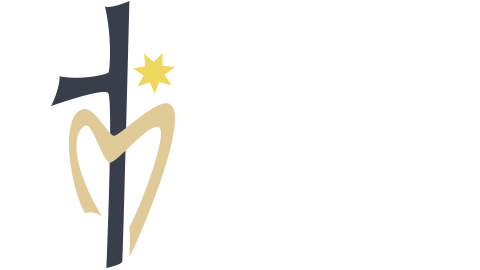
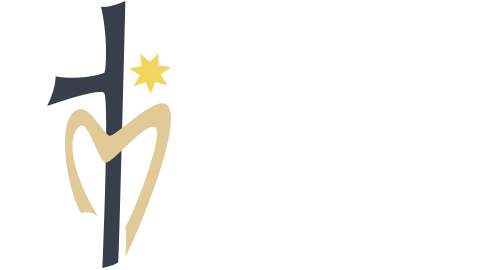
Final: 100%
- added tablet  css
- implemented review updates from Steve

Changed region(s): [[0.125, 0.0, 0.375, 1.0], [0.0938, 0.2667, 0.2188, 0.4148], [0.1562, 0.3852, 0.1875, 0.4148]]

diff --git a/lib/css/app.css b/lib/css/app.css
@@ -422,6 +422,7 @@ section,
 	.group > :last-child 		{ /*background-clip*/-moz-background-clip:padding; -webkit-background-clip:padding; background-clip:padding-box; }
 	.group > :first-child 		{ /*border-radius*/-webkit-border-radius:5px 5px 0 0; border-radius:5px 5px 0 0; }
 	.group > .item:last-child 	{ /*border-radius*/-webkit-border-radius:0 0 5px 5px; border-radius:0 0 5px 5px; border-bottom:2px solid #e5e5e5; }
+	.group > .item:only-child 	{ /*border-radius*/-webkit-border-radius:5px; border-radius:5px; }
 
 	/* groupHeader */
 	.groupHeader { 
@@ -433,7 +434,7 @@ section,
 		.groupHeader .m,
 		.groupHeader .y { display:block; max-width:45%; overflow:hidden; }
 		.groupHeader .m { float:left; }
-		.groupHeader .y { float:right; opacity:0.6; }
+		.groupHeader .y { float:right; opacity:0.8; }
 
 
 /* ==========================================================================
@@ -456,8 +457,8 @@ section,
 		
 		/* m */
 		.item .dateBlock .m { 
-			color:#b2b2b2; text-transform:uppercase;
-			font-size:11px; }
+			color:#888; text-transform:uppercase;
+			font-size:12px; }
 
 	/* -------------------------------------------------------------------------- */
 	/* icon */
@@ -468,18 +469,19 @@ section,
 	/* -------------------------------------------------------------------------- */
 	/* content */
 	.item .content {
-		width:auto; height:auto; min-height:34px; margin:14px 45px 14px 12px; padding:0; }
+		width:auto; height:auto; min-height:0; margin:14px 45px 14px 12px; padding:0; }
 	.item .dateBlock + .content { 
 		margin-left:55px; }
 	
 		/* common */
-		.item .content p { margin:0; overflow:hidden; /*white-space:nowrap; text-overflow:ellipsis;*/ }
+		.item .content p { margin:0; /* overflow:hidden; white-space:nowrap; text-overflow:ellipsis;*/ }
 
 		/* title */
 		.item .content .title { color:#333; font-size:16px; line-height:18px; margin-bottom:3px; }
+		.item .content .title:last-child { margin-bottom:0; }
 		
 		/* desc */
-		.item .content .desc { color:#aaa; font-size:14px; line-height:16px; }
+		.item .content .desc { color:#888; font-size:14px; line-height:16px; }
 
 /* -------------------------------------------------------------------------- */
 /* interaction */
@@ -491,8 +493,9 @@ section,
 /* custom */
 
 /* related */
-.item.related .title { margin-top:0; font-size:16px; line-height:34px; }
 .item.related .dateBlock { line-height:0.7em; }
+.item.related .content:before { content:''; display:inline-block; width:1px; min-height:34px; vertical-align:middle; }
+.item.related .content .title { display:inline-block; width:96%; margin-top:0; font-size:16px; line-height:18px; vertical-align:middle; }
 
 /* programmes | publications */
 .item.programmes .content .title,
@@ -598,8 +601,8 @@ section,
 	/* menuItem */
 	#pgHome .menuItem { 
 		display:block; position:absolute; top:0; width:50%; height:40%; margin:0; padding:0; overflow:hidden;
-		color:#fff!important; text-align:center;
-		text-decoration:none!important;
+		color:#fff!important; background-position:center bottom; background-repeat:repeat-x; 
+		text-align:center; text-decoration:none!important;
 		/*box-sizing*/-webkit-box-sizing:border-box; -moz-box-sizing:border-box; box-sizing:border-box;	}
 	
 	/* grid layout */
@@ -623,7 +626,7 @@ section,
 	
 		/* icon */
 		#pgHome .menuItem:before { 
-			display:block; position:absolute; top:50%; left:50%; margin:-30px 0 0 -20px; 
+			display:block; position:absolute; top:50%; left:50%; margin:-0.75em 0 0 -0.5em; 
 			font-size:40px; line-height:1em; }
 		#pgHome .menuItem.sml:before { 
 			display:inline-block; position:static; top:auto; left:auto; margin:0; 
@@ -638,8 +641,8 @@ section,
 		/* label */
 		#pgHome .menuItem .label { 
 			display:block; position:absolute; top:50%; left:0; width:100%; height:auto; margin:14px 0 0 0; 
-			opacity:0.6;
-			font-size:14px; line-height:1em; white-space:nowrap; text-overflow:ellipsis; }
+			opacity:0.8;
+			font-size:16px; line-height:1em; white-space:nowrap; text-overflow:ellipsis; }
 		#pgHome .menuItem.sml .label { 
 			display:inline-block; position:static; top:auto; left:auto; width:auto; margin:0 0 0 6px;
 			opacity:0.5; vertical-align:middle; }
@@ -653,7 +656,7 @@ section,
 /* -------------------------------------------------------------------------- */
 /* notif */
 #pgHome .notif { 
-	display:block; position:absolute; left:0; bottom:0; width:100%; height:auto; max-height:75px; margin:0; padding:15px 20px 15px 60px; overflow:hidden;
+	display:block; position:absolute; left:0; bottom:0; width:100%; height:auto; max-height:75px; margin:0 0 7px 0; padding:15px 20px 15px 60px; overflow:hidden;
 	font-size:11px; line-height:1.2em;
 	/*box-sizing*/-webkit-box-sizing:border-box; -moz-box-sizing:border-box; box-sizing:border-box; }
 	
@@ -685,6 +688,133 @@ section,
 /* btnBack */
 #pgMenu .btnBack 		{ opacity:0.5; }
 #pgMenu .btnBack.active { opacity:1; }
+
+
+/* ==========================================================================
+   responsive - TABLET
+   ========================================================================== */
+@media only screen and (min-width:600px) and (min-height:800px) {
+
+/* -------------------------------------------------------------------------- */
+/* pageHeader */
+.pageHeader .headerTitle.small .secID 	{ font-size:24px; line-height:26px; }
+.pageHeader .headerTitle.small .cateID 	{ font-size:16px; line-height:21px; margin-bottom:0; }
+.pageHeader .headerTitle .secID .label i { width:1.5em; font-size:20px; }
+
+/* -------------------------------------------------------------------------- */
+/* pageContent */
+.brand + .pageHeader + .pageContent { top:30%; }
+
+/* -------------------------------------------------------------------------- */
+/* brand */
+.brand { height:30%; background-image:url(../img/img-brand-tablet.png); background-size:290px 163px; }
+
+/* -------------------------------------------------------------------------- */
+/* layout */
+
+/* padded box */
+.padded { padding:30px; }
+
+/* -------------------------------------------------------------------------- */
+/* content view */
+
+.contentView.article.padded { padding-right:20%; }
+
+/* headings */
+.contentView h1 			{ font-size:32px; }
+.contentView h2 			{ font-size:28px; }
+.contentView h3 			{ font-size:26px; }
+.contentView h4 			{ font-size:22px; }
+
+/* text */
+.contentView p 				{ font-size:20px; line-height:1.35em; }
+.contentView p.sml 			{ font-size:18px; line-height:1.35em; }
+
+/* list */
+.contentView li 			{ font-size:20px; line-height:1.35em; }
+.contentView ol,
+.contentView ul				{ padding:0 0 0 30px; }
+
+/* -------------------------------------------------------------------------- */
+/* summary view */
+
+/* headings */
+.summaryView .title,
+.summaryView .desc { margin-left:30px; margin-right:25%; font-size:45px; }
+.summaryView .title { margin-top:1em; }
+.summaryView .btmGap { margin-bottom:0.8em; }
+	
+	/* info */
+	.summaryView .info { padding:18px 30px 19px 80px; font-size:18px; }
+	
+		/* icon */
+		.summaryView .info .icon { top:14px; left:30px; font-size:32px; }
+
+/* -------------------------------------------------------------------------- */
+/* groups */
+.group { margin:20px; }
+.groupHeader { height:45px; padding:0 15px; font-size:20px; line-height:45px; }
+
+/* -------------------------------------------------------------------------- */
+/* item */
+
+/* dateBlock */
+.item .dateBlock { width:63px; height:34px; margin-top:-17px; font-size:30px; line-height:34px; }
+	
+	/* m */
+	.item .dateBlock .m { font-size:15px; }
+
+	/* icon */
+	.item .icon { right:20px; font-size:30px; }
+	
+	/* content */
+	.item .content { margin:20px 25% 20px 24px; }
+	.item .dateBlock + .content { margin-left:75px; }
+	
+		/* title */
+		.item .content .title { font-size:20px; line-height:22px; margin-bottom:6px; }
+		
+		/* desc */
+		.item .content .desc { font-size:16px; line-height:20px; }
+
+/* related */
+.item.related .dateBlock { line-height:0.6em; }
+.item.related .content .title { font-size:20px; line-height:22px; }
+
+/* programmes | publications */
+.item.programmes .content .title,
+.item.publications .content .title { font-size:20px; line-height:22px; }
+
+/* -------------------------------------------------------------------------- */
+/* menu */
+#pgHome .menu { top:30%; bottom:120px; left:6%; right:6%; }
+
+/* -------------------------------------------------------------------------- */
+/* menuItem */
+
+/* icon */
+#pgHome .menuItem:before				{ font-size:70px; }
+#pgHome .menuItem.sml:before 			{ font-size:38px; }
+#pgHome .menuItem.sml:last-child:before { font-size:45px; }
+
+/* label */
+#pgHome .menuItem .label { margin-top:0.8em; font-size:28px; }
+#pgHome .menuItem.sml .label { margin-left:16px; }
+
+/* notif */
+#pgHome .notif { 
+	max-height:100px; margin-bottom:14px; padding:25px 55px 25px 120px; 
+	font-size:18px; line-height:1.3em; }
+	
+	/* icon */
+	#pgHome .notif .icon { 
+		left:55px; width:48px; height:48px; margin-top:-24px; border-width:3px;
+		font-size:30px; line-height:1.2em; }
+		 
+	/* text */
+	#pgHome .notif .title 	{ min-height:1.3em; }
+
+}
 
 
 /* ==========================================================================
